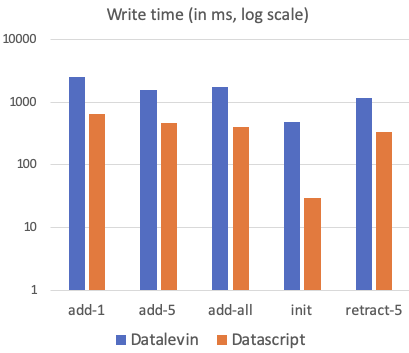
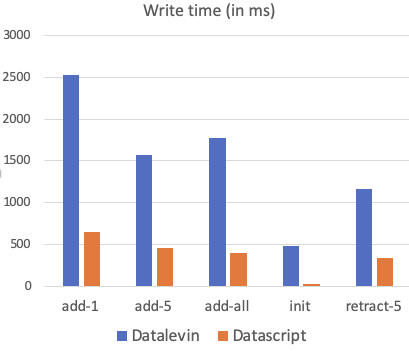
update write bench plot

diff --git a/README.md b/README.md
@@ -172,8 +172,10 @@ documentation](https://juji-io.github.io/datalevin/index.html) for more details.
 ## :rocket: Status
 
 Both Datascript and LMDB are mature and stable libraries. Building on top of
-them, Datalevin is extensively tested with property-based testing. Running the
-benchmark suite of Datascript, here is how it looks.
+them, Datalevin is extensively tested with property-based testing.
+
+Running the benchmark suite of Datascript on a Ubuntu Linux server with an Intel
+i7 3.6GHz CPU and a 1TB SSD drive, here is how it looks.
 
 <p align="center">
 <img src="bench/datalevin-bench-query-01-05-2021.png" alt="query benchmark" height="250"></img>
@@ -193,8 +195,8 @@ more efficient query implementation.
 Writes are slower than Datascript, as expected, as Datalevin is writing to disk
 while Datascript is in memory. The bulk write speed is good, writing 100K datoms
 to disk in less than 0.5 seconds; the same data can also be transacted with all
-the integrity checks as a whole in around 1 second. If transacting one datom or
-a few datoms at a time, it is a couple more seconds slower.
+the integrity checks as a whole in less than 2 seconds. Transacting one datom or
+five datoms at a time, it takes more or less than that time.
 
 In short, Datalevin is quite capable for small or medium projects right now.
 Large scale projects can be supported when distributed mode is implemented.
